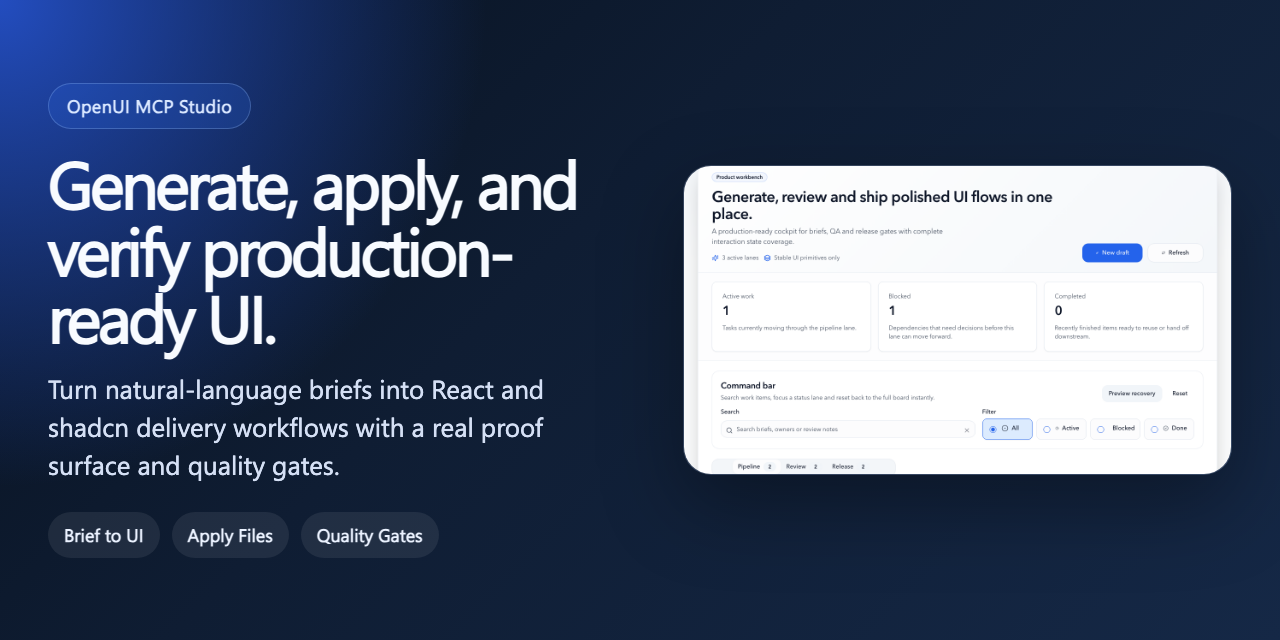
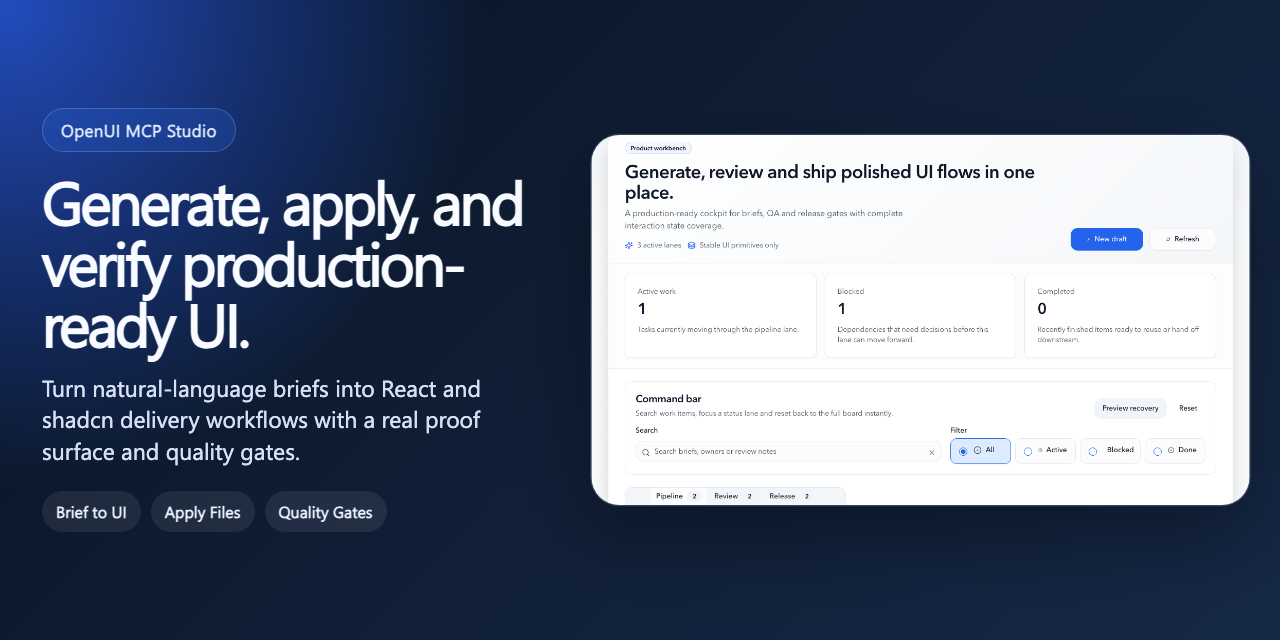
fix(assets): improve social preview readability
Pre-commit-hook: passed

diff --git a/docs/assets/openui-mcp-studio-social-preview-source.html b/docs/assets/openui-mcp-studio-social-preview-source.html
@@ -30,16 +30,16 @@
 				width: 1280px;
 				height: 640px;
 				display: grid;
-				grid-template-columns: 1.05fr 0.95fr;
-				gap: 28px;
-				padding: 48px;
+				grid-template-columns: 0.92fr 1.08fr;
+				gap: 20px;
+				padding: 40px 42px;
 			}
 
 			.left {
 				display: flex;
 				flex-direction: column;
 				justify-content: center;
-				gap: 20px;
+				gap: 18px;
 			}
 
 			.chip {
@@ -49,39 +49,39 @@
 				background: rgba(47, 109, 246, 0.18);
 				border: 1px solid rgba(157, 196, 255, 0.28);
 				color: #d9e7ff;
-				font-size: 18px;
+				font-size: 17px;
 				font-weight: 600;
 				letter-spacing: 0.02em;
 			}
 
 			h1 {
 				margin: 0;
-				font-size: 66px;
+				font-size: 60px;
 				line-height: 1.02;
 				letter-spacing: -0.05em;
 			}
 
 			p {
 				margin: 0;
-				font-size: 26px;
-				line-height: 1.45;
+				font-size: 23px;
+				line-height: 1.38;
 				color: #d5e0f5;
-				max-width: 540px;
+				max-width: 500px;
 			}
 
 			.tags {
 				display: flex;
 				flex-wrap: wrap;
-				gap: 12px;
-				margin-top: 8px;
+				gap: 10px;
+				margin-top: 6px;
 			}
 
 			.tag {
-				padding: 11px 16px;
+				padding: 10px 14px;
 				border-radius: 999px;
 				background: rgba(255, 255, 255, 0.08);
 				color: #ebf2ff;
-				font-size: 18px;
+				font-size: 16px;
 				font-weight: 600;
 			}
 
@@ -98,6 +98,8 @@
 				border: 1px solid rgba(201, 219, 255, 0.16);
 				box-shadow: 0 30px 80px rgba(0, 0, 0, 0.35);
 				background: rgba(255, 255, 255, 0.04);
+				transform: scale(1.04);
+				transform-origin: center;
 			}
 
 			img {
